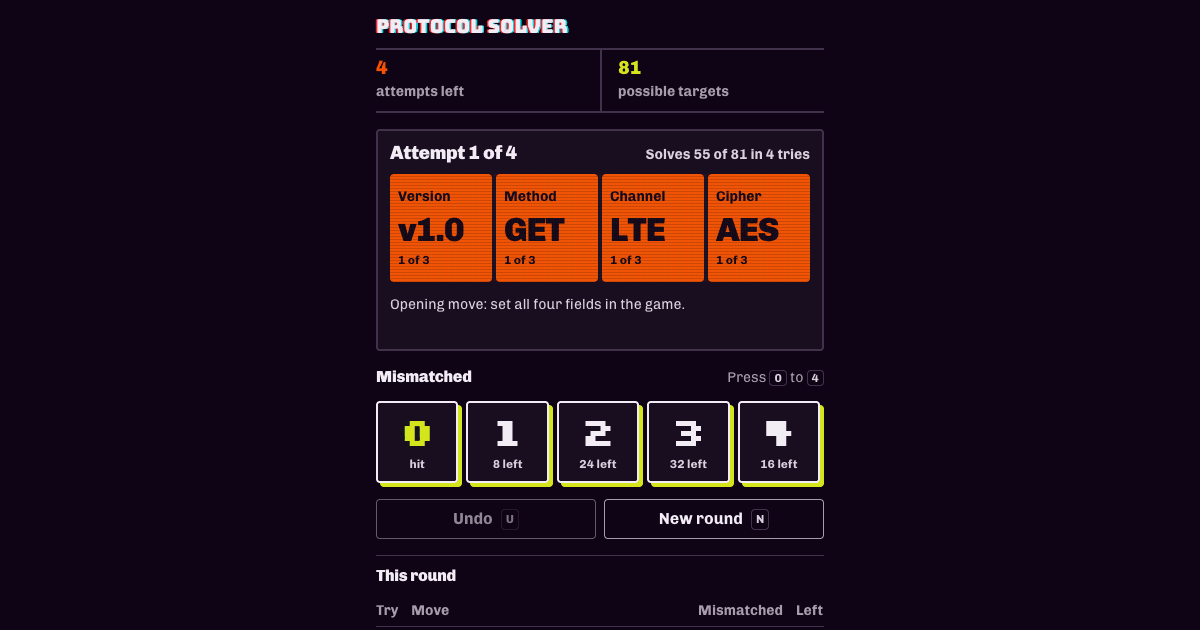
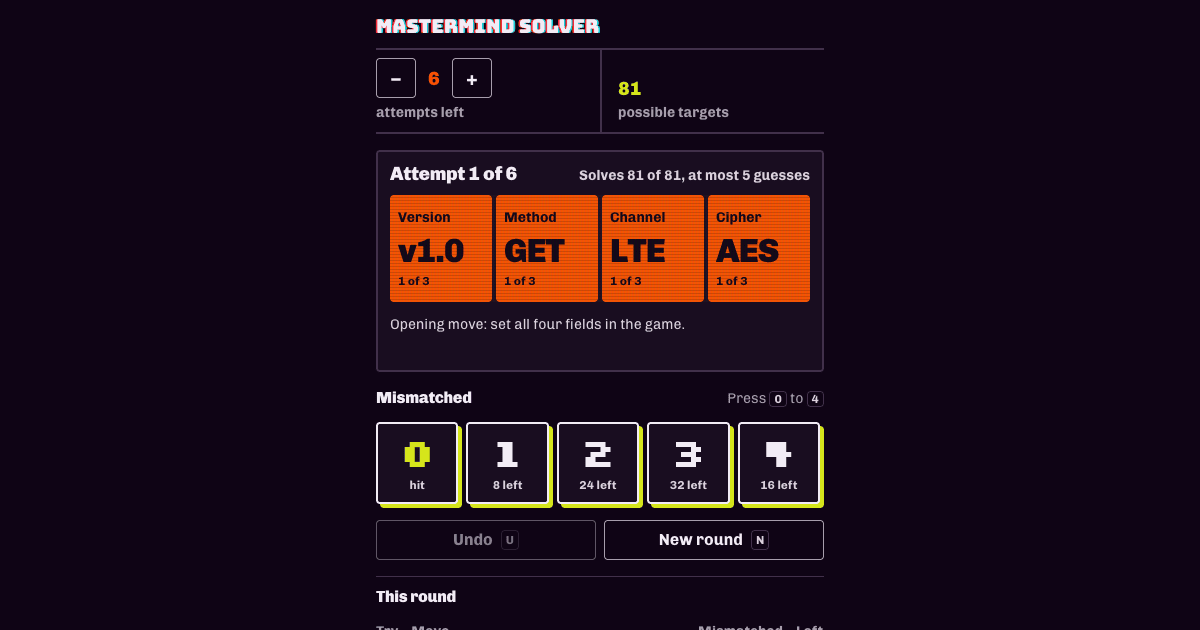
fix: show worst-case guesses in move odds and refresh preview image (#9)
* fix: refresh Open Graph preview image to current page

* feat: show worst-case guesses in the move-odds label and refresh preview image

* fix: version the og:image URL so link previews refresh

* perf: compress the preview image with pngquant

Changed region(s): [[0.3083, 0.0905, 0.7092, 1.0], [0.555, 0.9651, 0.7092, 1.0], [0.3083, 0.0302, 0.5242, 0.0603]]

diff --git a/public/app.js b/public/app.js
@@ -1,4 +1,4 @@
-import { COMBOS, FIELDS, comboIndex, comboValues, candidatesFor, filterCandidates, play, roundState } from "./solver.js";
+import { COMBOS, FIELDS, comboIndex, comboValues, candidatesFor, filterCandidates, guessesNeeded, play, roundState } from "./solver.js";
 
 const $ = (id) => document.getElementById(id);
 const FEEDBACKS = [0, 1, 2, 3, 4];
@@ -73,6 +73,12 @@ function renderScore() {
   $("count").textContent = state.candidates.length;
 }
 
+function moveOdds({ hits }, candidates, triesLeft) {
+  const solvesAll = hits === candidates.length;
+  const guesses = solvesAll ? guessesNeeded(candidates, triesLeft) : triesLeft;
+  return `Solves ${hits} of ${candidates.length}${solvesAll ? ", at most" : " within"} ${plural(guesses, "guess", "guesses")}`;
+}
+
 function renderMove() {
   const { move, solved, triesLeft, candidates } = state;
   const last = history.at(-1);
@@ -81,7 +87,7 @@ function renderMove() {
 
   $("move").dataset.mode = solved ? "solved" : move ? "play" : "over";
   $("move-title").textContent = solved ? "Cracked" : move ? `Attempt ${history.length + 1} of ${limit}` : "Out of attempts";
-  $("move-odds").textContent = move ? `Solves ${move.hits} of ${candidates.length} in ${plural(triesLeft, "try", "tries")}` : "";
+  $("move-odds").textContent = move ? moveOdds(move, candidates, triesLeft) : "";
 
   $("cols").replaceChildren(
     ...FIELDS.map((field, f) => {

diff --git a/test/app.test.js b/test/app.test.js
@@ -123,3 +123,18 @@ test("attempts left plus moves played never exceed 8, and New round goes back to
   assert.equal(text("#move-title"), "Attempt 1 of 6");
   assert.equal(up.getAttribute("aria-disabled"), "false");
 });
+
+test("move odds name the guesses needed when every target is solvable", async () => {
+  const { text } = await openApp();
+  assert.equal(text("#move-odds"), "Solves 81 of 81, at most 5 guesses");
+});
+
+test("move odds keep the within form when attempts are short", async () => {
+  const { document, text } = await openApp();
+  const down = document.getElementById("tries-down");
+  down.click();
+  down.click();
+  assert.equal(text("#move-odds"), "Solves 55 of 81 within 4 guesses");
+  for (let i = 0; i < 3; i++) down.click();
+  assert.equal(text("#move-odds"), "Solves 1 of 81 within 1 guess");
+});

diff --git a/test/solver.test.js b/test/solver.test.js
@@ -4,6 +4,7 @@ import {
   COMBOS,
   OPENING_MOVE,
   SPARE_OPENING_MOVE,
+  guessesNeeded,
   SPARE_OPENING_LIMIT,
   candidatesFor,
   bestMove,
@@ -175,4 +176,12 @@ test("with one attempt left the move is a possible target, not a probe", () => {
 
 test("the opening move for a limit other than 4 is searched, not precomputed", () => {
   assert.deepEqual(roundState([], 6).move, { guess: 0, hits: 81 });
+});
+
+test("guessesNeeded is the fewest guesses that solve every target", () => {
+  const all = candidatesFor([]);
+  assert.ok(solvable(all, 4) < all.length);
+  assert.equal(solvable(all, 5), all.length);
+  for (const limit of [5, 6, 8]) assert.equal(guessesNeeded(all, limit), 5);
+  assert.equal(guessesNeeded([7], 3), 1);
 });

diff --git a/public/index.html b/public/index.html
@@ -9,7 +9,7 @@
     <meta property="og:url" content="https://cor3.azd325.com/" />
     <meta property="og:title" content="Cor3.gg Mastermind Solver — Cleaner Bot minigame" />
     <meta property="og:description" content="Solves the Cor3.gg Mastermind minigame in the Cleaner Bot (Space Roomba) stage and decrypt jobs: pick Version, Method, Channel and Cipher. Unofficial fan tool." />
-    <meta property="og:image" content="https://cor3.azd325.com/og-image.png" />
+    <meta property="og:image" content="https://cor3.azd325.com/og-image.png?v=2" />
     <meta property="og:image:width" content="1200" />
     <meta property="og:image:height" content="630" />
     <meta name="twitter:card" content="summary_large_image" />

diff --git a/public/solver.js b/public/solver.js
@@ -81,6 +81,11 @@ function fewestTriesToSolveAll(candidates, tries) {
   return tries;
 }
 
+export function guessesNeeded(candidates, triesLeft) {
+  if (candidates.length === N && triesLeft >= SPARE_OPENING_LIMIT) return SPARE_OPENING_LIMIT;
+  return fewestTriesToSolveAll(candidates, triesLeft);
+}
+
 export function bestMove(candidates, triesLeft) {
   if (triesLeft <= 0 || candidates.length === 0) return null;
   if (triesLeft === 1 || candidates.length === 1) return { guess: candidates[0], hits: 1 };

diff --git a/skills/coregg-solver/scripts/solver.js b/skills/coregg-solver/scripts/solver.js
@@ -81,6 +81,11 @@ function fewestTriesToSolveAll(candidates, tries) {
   return tries;
 }
 
+export function guessesNeeded(candidates, triesLeft) {
+  if (candidates.length === N && triesLeft >= SPARE_OPENING_LIMIT) return SPARE_OPENING_LIMIT;
+  return fewestTriesToSolveAll(candidates, triesLeft);
+}
+
 export function bestMove(candidates, triesLeft) {
   if (triesLeft <= 0 || candidates.length === 0) return null;
   if (triesLeft === 1 || candidates.length === 1) return { guess: candidates[0], hits: 1 };
